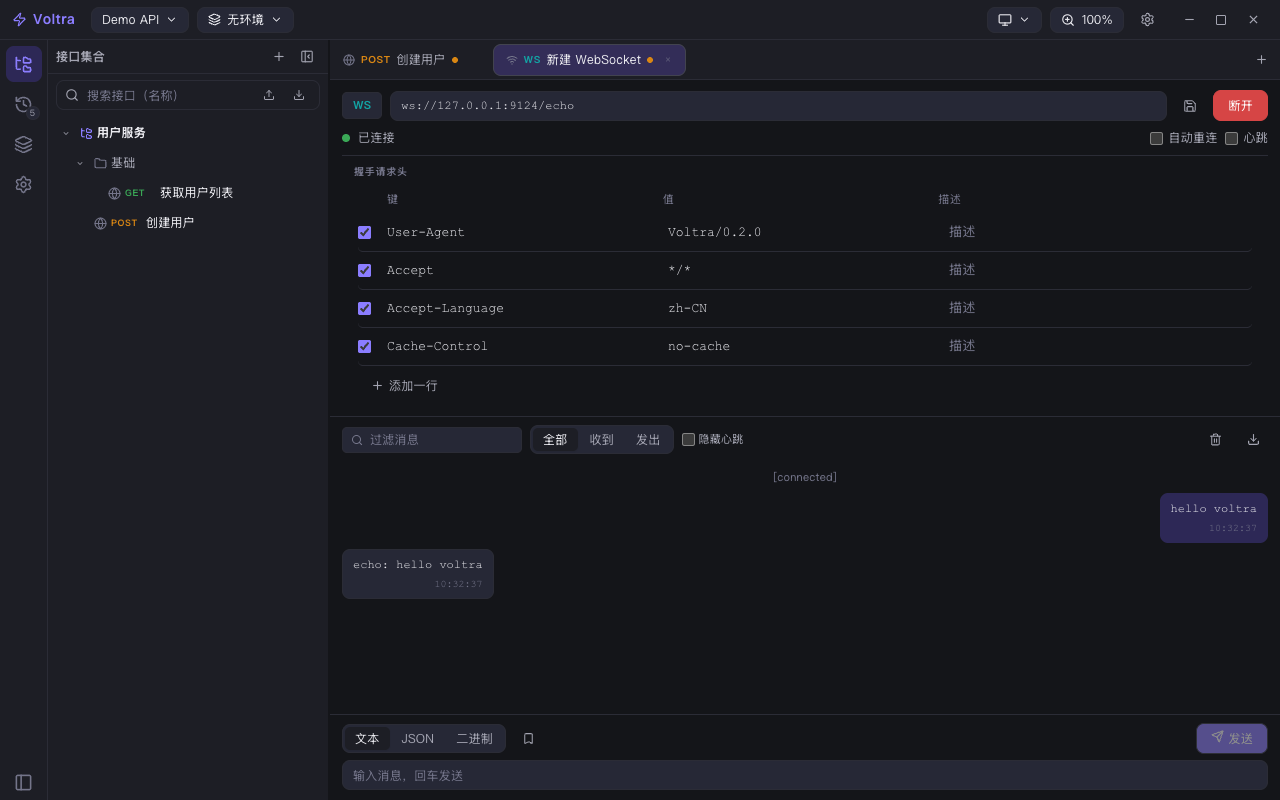
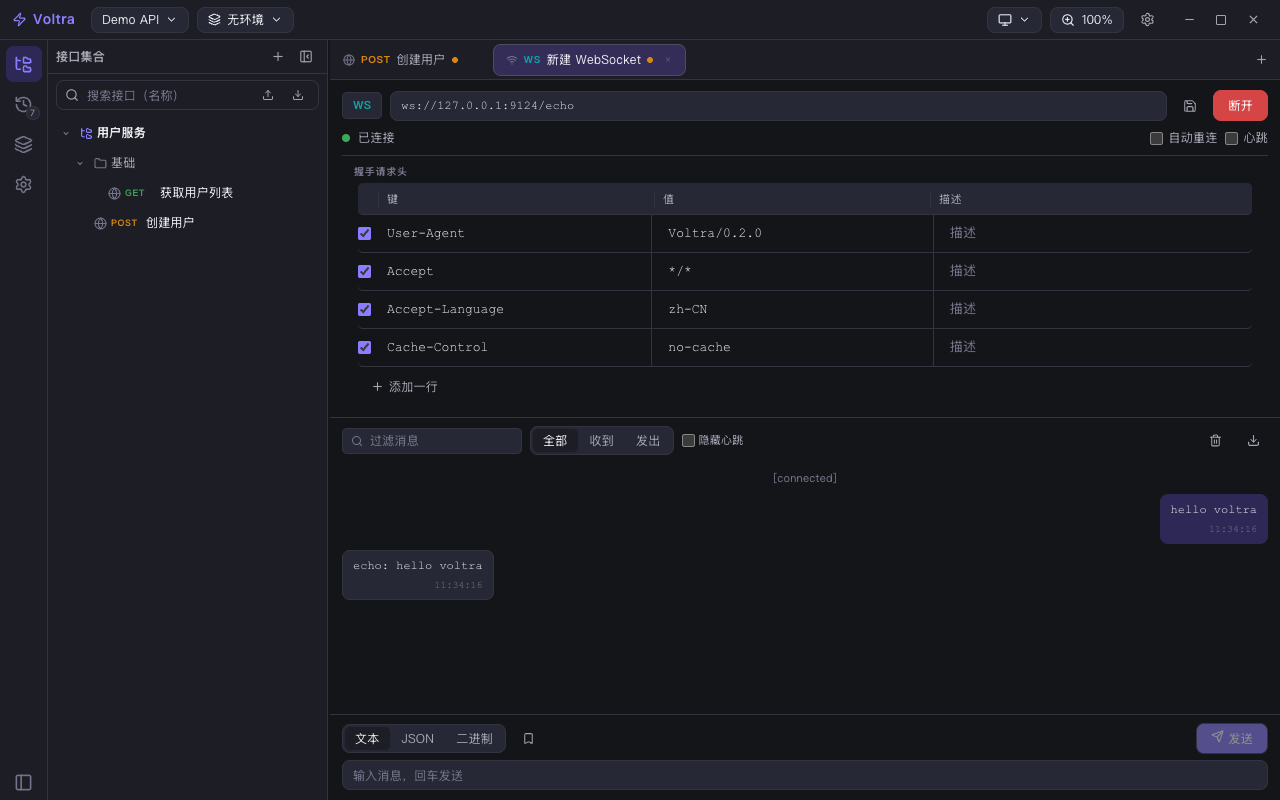
阶段24: Postman 色彩体系重排（白底+清晰边框+高饱和强调色）
实测反馈：旧浅色主题画布/面板/字段全是灰底互叠，层次不清晰、颜色区分不明显。
参考 Postman 浅色版重做色彩体系（暗色保持原填充层次，零回归）：

- 浅色改纯白打底：层次不再靠大面积灰底，改为 1px 描边 + 灰底凹槽（well）
  + 高饱和强调色（Send/方法色/品牌紫）。新增 --bg-well 令牌（#f4f5f8），
  表头/斑马纹/分段控件/选中底等 21 处从 --bg-sunken 迁移过来；输入面
  （URL 栏/编辑器/输入框）保持白底+描边
- 边框提亮：--border #d8dae2 / --border-strong #b6b9c8；URL 栏与方法
  下拉改 border-strong；侧栏加 1px 右分隔线（白底下面板间不再靠底色区分）
- Params/Headers/form-data 表对齐 Postman：表头灰底+下划线，列间 1px
  竖线（复选|key|value|desc 各列），聚焦单元格灰底+品牌下划线
- 顺手修响应状态行「200 200 OK」：Go resp.Status 已含状态码，不再拼两遍
- 截图（明/暗/WS）重拍更新

验收：npm build + 176/176 测试通过；E2E 无头实机明暗双主题截图核对

diff --git a/frontend/src/styles/tokens.css b/frontend/src/styles/tokens.css
@@ -29,21 +29,23 @@
 }
 
 [data-theme='light'] {
-  /* 三层表面（Postman 式）：画布 < 面板 < 字段。sunken 即"字段层"
-     （URL 栏 / 代码编辑器 / 输入框），比面板略深、比画布略浅，浮出但不出戏 */
-  --bg: #eef0f5;
+  /* Postman 式浅色：纯白打底，层次靠 1px 描边 + 灰底凹槽（well：表头 / 斑马纹 / 分段控件 /
+     选中底色）+ 高饱和强调色（Send / 方法色 / 品牌色），而不是大面积灰底互叠
+     （旧版 画布/面板/字段 全是灰，实机反馈"层次不清晰、颜色区分不明显"） */
+  --bg: #ffffff;
   --bg-elev: #ffffff;
-  --bg-sunken: #f6f7fb;
-  --bg-hover: #eceffb;
-  --bg-active: #e4e1f9;
-  --border: #e2e3ea;
-  --border-strong: #c9cad4;
-  --text: #1f2024;
-  --text-dim: #6b6b74;
-  --text-faint: #9a9aa2;
+  --bg-sunken: #ffffff;
+  --bg-well: #f4f5f8;
+  --bg-hover: #f1f2f6;
+  --bg-active: #e9e7fb;
+  --border: #d8dae2;
+  --border-strong: #b6b9c8;
+  --text: #14151a;
+  --text-dim: #54555f;
+  --text-faint: #85868f;
   --brand: #5b4ee0;
   --brand-weak: #efedfd;
-  --shadow: 0 1px 2px rgba(0, 0, 0, 0.04), 0 8px 24px rgba(20, 20, 40, 0.08);
+  --shadow: 0 1px 2px rgba(0, 0, 0, 0.05), 0 8px 24px rgba(20, 20, 40, 0.1);
   --scrollbar-thumb: var(--border-strong);
   color-scheme: light;
 }
@@ -54,10 +56,11 @@
   --bg: #141519;
   --bg-elev: #1d1e25;
   --bg-sunken: #262836;
+  --bg-well: #262836;
   --bg-hover: #2a2c3a;
   --bg-active: #332d58;
-  --border: #2b2c36;
-  --border-strong: #42434f;
+  --border: #33343f;
+  --border-strong: #4b4d5c;
   --text: #eaeaef;
   --text-dim: #a3a4b1;
   --text-faint: #74758a;

diff --git a/frontend/src/components/common/KvEditor.vue b/frontend/src/components/common/KvEditor.vue
@@ -93,12 +93,36 @@ function removeRow(idx: number) {
 }
 .kve-head {
   font-size: 11px;
-  color: var(--text-faint);
+  color: var(--text-dim);
   letter-spacing: 0.2px;
   padding: 8px 8px 6px;
+  background: var(--bg-well);
+  border-radius: var(--radius-sm);
+  border-bottom: 1px solid var(--border);
 }
 .kve-head > span:not(:first-child):not(:last-child) {
   flex: 1;
+}
+/* 列分隔线（对齐 Postman 参数表）：复选 | key | value | desc 之间各 1px 竖线。
+   行内画在"左列"右缘；最后一列（value/desc）不画，删除按钮列之前留白。 */
+.kve-head > span {
+  display: flex;
+  align-items: center;
+  align-self: stretch;
+}
+.kve-cb,
+.kve-row input[type='checkbox'] {
+  border-right: 1px solid var(--border);
+}
+.kve-head > span:nth-child(2),
+.kve-row .kve-in {
+  border-right: 1px solid var(--border);
+}
+.kve-row .kve-in:last-of-type {
+  border-right: none;
+}
+.kve-head.desc > span:nth-child(3) {
+  border-right: 1px solid var(--border);
 }
 .kve-sp {
   width: 30px;
@@ -139,7 +163,7 @@ function removeRow(idx: number) {
   transition: background var(--ease), box-shadow var(--ease);
 }
 .kve-in:focus {
-  background: var(--bg-sunken);
+  background: var(--bg-well);
   box-shadow: inset 0 -2px 0 var(--brand);
 }
 .kve-row.disabled .kve-in,

diff --git a/frontend/src/components/request/BodyTab.vue b/frontend/src/components/request/BodyTab.vue
@@ -260,9 +260,28 @@ function removeFormRow(f: FormField) {
 }
 .fd-head {
   font-size: 11px;
-  color: var(--text-faint);
+  color: var(--text-dim);
   letter-spacing: 0.2px;
   padding: 8px 8px 6px;
+  background: var(--bg-well);
+  border-radius: var(--radius-sm);
+  border-bottom: 1px solid var(--border);
+}
+/* 列分隔线（与 KvEditor 一致）：复选 | key 之间 1px 竖线；
+   type 列靠 select 自身的描边分隔，value 为末列不画线 */
+.fd-head > span {
+  display: flex;
+  align-items: center;
+  align-self: stretch;
+}
+.fd-cb,
+.fd-row input[type='checkbox'] {
+  border-right: 1px solid var(--border);
+}
+.fd-head > span:nth-child(2),
+.fd-head > span:nth-child(3),
+.fd-row input:nth-of-type(2) {
+  border-right: 1px solid var(--border);
 }
 .fd-cb {
   width: 13px;
@@ -313,7 +332,7 @@ function removeFormRow(f: FormField) {
   transition: background var(--ease), box-shadow var(--ease);
 }
 .fd-in:focus {
-  background: var(--bg-sunken);
+  background: var(--bg-well);
   box-shadow: inset 0 -2px 0 var(--brand);
 }
 .fd-type {

diff --git a/frontend/src/components/codegen/CodeGenDrawer.vue b/frontend/src/components/codegen/CodeGenDrawer.vue
@@ -207,7 +207,7 @@ async function onCopy() {
 .cg-mode-seg {
   display: inline-flex;
   padding: 2px;
-  background: var(--bg-sunken);
+  background: var(--bg-well);
   border: 1px solid var(--border);
   border-radius: var(--radius);
 }
@@ -306,7 +306,7 @@ async function onCopy() {
 .cg-lang-count {
   font-size: 10px;
   color: var(--text-faint);
-  background: var(--bg-sunken);
+  background: var(--bg-well);
   border-radius: 999px;
   padding: 1px 6px;
   flex-shrink: 0;
@@ -366,7 +366,7 @@ async function onCopy() {
   white-space: nowrap;
 }
 .cg-menu-item:hover {
-  background: var(--bg-sunken);
+  background: var(--bg-well);
 }
 .cg-menu-item.active {
   color: var(--brand);

diff --git a/frontend/src/components/request/AuthTab.vue b/frontend/src/components/request/AuthTab.vue
@@ -492,7 +492,7 @@ const inheritResolvesNone = computed(
   cursor: pointer;
 }
 .at-menu-item:hover {
-  background: var(--bg-sunken);
+  background: var(--bg-well);
   color: var(--text);
 }
 .at-menu-item.active {
@@ -534,7 +534,7 @@ const inheritResolvesNone = computed(
   overflow: auto;
   border: 1px solid var(--border);
   border-radius: var(--radius-sm);
-  background: var(--bg-sunken);
+  background: var(--bg-well);
   font-family: var(--mono);
   font-size: 11px;
   color: var(--text-dim);

diff --git a/frontend/src/components/response/StatusLine.vue b/frontend/src/components/response/StatusLine.vue
@@ -21,8 +21,9 @@ const statusClass = computed(() => {
 
 <template>
   <div class="sl">
+    <!-- resp.Status 已含状态码（Go "200 OK"），直接渲染，缺失时退回 statusCode -->
     <span :class="['sl-status', statusClass]">
-      {{ response.statusCode }} {{ response.status }}
+      {{ response.status || response.statusCode }}
     </span>
     <span class="sl-meta">{{ response.durationMs }} ms</span>
     <span class="sl-meta">{{ formatBytes(response.sizeBytes) }}</span>

diff --git a/frontend/src/components/history/HistoryPanel.vue b/frontend/src/components/history/HistoryPanel.vue
@@ -216,7 +216,7 @@ function fmtTime(ts: number): string {
 .hp-code {
   padding: 0 4px;
   border-radius: 3px;
-  background: var(--bg-sunken);
+  background: var(--bg-well);
 }
 .hp-act {
   display: flex;
@@ -236,7 +236,7 @@ function fmtTime(ts: number): string {
   opacity: 1;
 }
 .hp-act:hover {
-  background: var(--bg-sunken);
+  background: var(--bg-well);
   color: var(--text);
 }
 .hp-foot {

diff --git a/frontend/src/components/shell/Sidebar.vue b/frontend/src/components/shell/Sidebar.vue
@@ -113,7 +113,8 @@ function doClearHistory() {
   flex-direction: column;
   min-height: 0;
   background: var(--bg-elev);
-  border-right: 0;
+  /* 浅色主题下画布与面板同为纯白，侧栏靠 1px 描边与主区分隔（Splitter 悬停时才出线） */
+  border-right: 1px solid var(--border);
 }
 .sb-head {
   height: 34px;

diff --git a/frontend/src/components/response/BodyTab.vue b/frontend/src/components/response/BodyTab.vue
@@ -316,7 +316,7 @@ const hexSummary = computed(() => (isBinary.value ? binaryHexSummary(text.value)
   min-height: 0;
   overflow: auto;
   padding: 8px 10px;
-  background: var(--bg-sunken);
+  background: var(--bg-well);
   border-radius: var(--radius-sm);
   font-size: 12px;
   font-family: var(--mono);

diff --git a/frontend/src/components/response/ErrorCard.vue b/frontend/src/components/response/ErrorCard.vue
@@ -71,7 +71,7 @@ const text = computed(() => L.value.errorKind[kind.value] ?? L.value.errorKind.o
 .ec-detail pre {
   margin: 6px 0 0;
   padding: 8px;
-  background: var(--bg-sunken);
+  background: var(--bg-well);
   border-radius: var(--radius-sm);
   font-size: 11px;
   font-family: var(--mono);

diff --git a/frontend/src/components/request/HeadersTab.vue b/frontend/src/components/request/HeadersTab.vue
@@ -67,7 +67,7 @@ const autoHeaders = computed(() => autoGeneratedHeaders(props.request))
   gap: 3px;
   padding: 6px 8px;
   border-radius: var(--radius-sm);
-  background: var(--bg-sunken);
+  background: var(--bg-well);
   font-family: var(--mono);
   font-size: 11px;
   color: var(--text-faint);

diff --git a/frontend/src/components/common/Segmented.vue b/frontend/src/components/common/Segmented.vue
@@ -25,7 +25,7 @@ const emit = defineEmits<{ (e: 'update:modelValue', value: string): void }>()
 <style scoped>
 .segmented {
   display: inline-flex;
-  background: var(--bg-sunken);
+  background: var(--bg-well);
   border: 1px solid var(--border);
   border-radius: var(--radius);
   padding: 2px;
